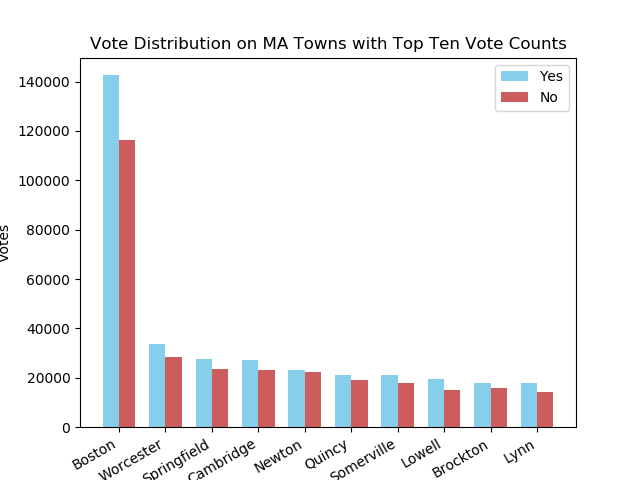
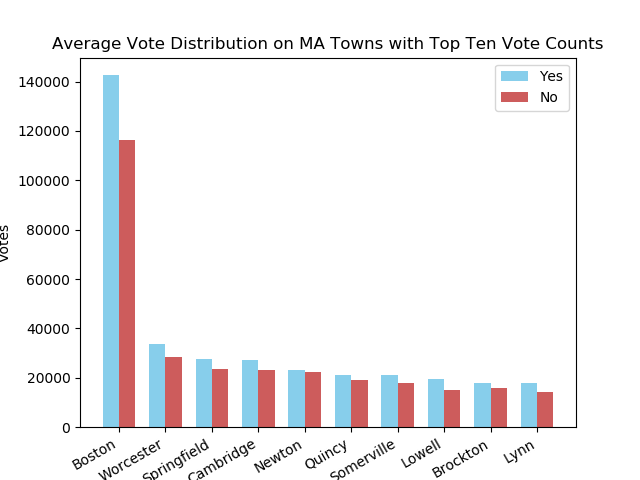
Add republican and democratic primary breakdown

Changed region(s): [[0.0625, 0.0625, 0.6562, 0.125], [0.6875, 0.0625, 0.9375, 0.125]]

diff --git a/republicanPrimaryGraph.py b/republicanPrimaryGraph.py
@@ -1,0 +1,77 @@
+import pymongo
+import dml
+import matplotlib.pyplot as plt; plt.rcdefaults()
+import numpy as np
+import matplotlib.pyplot as plt
+import operator
+
+dml.pymongo.MongoClient()
+client = dml.pymongo.MongoClient()
+repo = client.repo
+repo.authenticate('stathisk_simonwu_nathanmo_nikm', 'stathisk_simonwu_nathanmo_nikm')
+collection = repo["stathisk_simonwu_nathanmo_nikm.republican_primary"]
+
+#query avg answers for top 10
+data = collection.find()
+trump = []
+rubio = []
+cruz = []
+town = []
+sumsAndTown = {}
+
+for i in range(data.count()):
+    entry = data[i]
+    if entry["City/Town"] == 'TOTALS':
+        continue
+
+    trump.append(int(entry['Donald J Trump'].replace(',', '')))
+    rubio.append(int(entry['Marco Rubio'].replace(',', '')))
+    cruz.append(int(entry['Ted Cruz'].replace(',', '')))
+    town.append(entry["City/Town"])
+    sumsAndTown[entry["City/Town"]] = int(entry['Donald J Trump'].replace(',', '')) \
+                                     + int(entry['Marco Rubio'].replace(',', '')) + \
+                                      int(entry['Ted Cruz'].replace(',', ''))
+
+topTowns = []
+while len(topTowns) != 10:
+    maxTown = max(sumsAndTown.items(), key=operator.itemgetter(1))[0]
+    topTowns.append(maxTown)
+    sumsAndTown.pop(maxTown, None)
+
+topTrump = []
+topRubio = []
+topCruz = []
+
+for topTown in topTowns:
+    topTrump.append(trump[town.index(topTown)])
+    topCruz.append(cruz[town.index(topTown)])
+    topRubio.append(rubio[town.index(topTown)])
+
+
+
+
+
+ind = np.arange(len(topTowns))  # the x locations for the groups
+width = 0.35  # the width of the bars
+fig, ax = plt.subplots()
+
+rects1 = ax.bar(ind - width/2, topTrump, width,
+                color='SkyBlue', label='Donald Trump')
+rects2 = ax.bar(ind + width/2, topRubio, width,
+                color='IndianRed', label='Marco Rubio')
+rects3 = ax.bar(ind + width/2, topCruz, width,
+                color='Green', label='Ted Cruz')
+
+ax.set_ylabel('Votes')
+ax.set_title('Repubilcan Primary Voter Distribution in Towns with Highest Voter Participation')
+ax.set_xticks(ind)
+ax.set_xticklabels(topTowns)
+ax.legend()
+plt.setp(ax.get_xticklabels(), rotation=30, horizontalalignment='right')
+
+
+#autolabel(rects1, "left")
+#autolabel(rects2, "right")
+plt.savefig('republicanPrimary.png')
+plt.show()
+

diff --git a/democraticPrimary.py b/democraticPrimary.py
@@ -1,0 +1,69 @@
+import pymongo
+import dml
+import matplotlib.pyplot as plt; plt.rcdefaults()
+import numpy as np
+import matplotlib.pyplot as plt
+import operator
+
+dml.pymongo.MongoClient()
+client = dml.pymongo.MongoClient()
+repo = client.repo
+repo.authenticate('stathisk_simonwu_nathanmo_nikm', 'stathisk_simonwu_nathanmo_nikm')
+collection = repo["stathisk_simonwu_nathanmo_nikm.democratic_primary"]
+
+#query avg answers for top 10
+data = collection.find()
+hillary = []
+bernie = []
+town = []
+sumsAndTown = {}
+
+for i in range(data.count()):
+    entry = data[i]
+    if entry["City/Town"] == 'TOTALS':
+        continue
+
+    hillary.append(int(entry['Hillary Clinton'].replace(',', '')))
+    bernie.append(int(entry['Bernie Sanders'].replace(',', '')))
+    town.append(entry["City/Town"])
+    sumsAndTown[entry["City/Town"]] =int(entry['Bernie Sanders'].replace(',', '')) + int(entry['Hillary Clinton'].replace(',', ''))
+
+topTowns = []
+while len(topTowns) != 10:
+    maxTown = max(sumsAndTown.items(), key=operator.itemgetter(1))[0]
+    topTowns.append(maxTown)
+    sumsAndTown.pop(maxTown, None)
+
+topBernie = []
+topHilary = []
+
+for topTown in topTowns:
+    topBernie.append(bernie[town.index(topTown)])
+    topHilary.append(hillary[town.index(topTown)])
+
+
+
+
+
+ind = np.arange(len(topTowns))  # the x locations for the groups
+width = 0.35  # the width of the bars
+fig, ax = plt.subplots()
+
+rects1 = ax.bar(ind - width/2, topHilary, width,
+                color='SkyBlue', label='Hillary Clinton')
+rects2 = ax.bar(ind + width/2, topBernie, width,
+                color='IndianRed', label='Bernie Sanders')
+
+ax.set_ylabel('Votes')
+ax.set_title('Democratic Primary Voter Distribution in Towns with Highest Voter Participation')
+ax.set_xticks(ind)
+ax.set_xticklabels(topTowns)
+ax.legend()
+plt.setp(ax.get_xticklabels(), rotation=30, horizontalalignment='right')
+
+
+#autolabel(rects1, "left")
+#autolabel(rects2, "right")
+plt.savefig('demPrimary.png')
+plt.show()
+

diff --git a/groupChart.py b/groupChart.py
@@ -14,7 +14,6 @@ collection = repo["stathisk_simonwu_nathanmo_nikm.avgAnswers"]
 data = collection.find().sort([("Total Votes Cast", pymongo.DESCENDING)])
 yesList = []
 noList = []
-#blankList = []
 localityList = []
 for i in range(10):
     entry = data[i]
@@ -32,7 +31,7 @@ rects2 = ax.bar(ind + width/2, noList, width,
                 color='IndianRed', label='No')
 
 ax.set_ylabel('Votes')
-ax.set_title('Vote Distribution on MA Towns with Top Ten Vote Counts')
+ax.set_title('Average Vote Distribution on MA Towns with Top Ten Vote Counts')
 ax.set_xticks(ind)
 ax.set_xticklabels(localityList)
 ax.legend()
